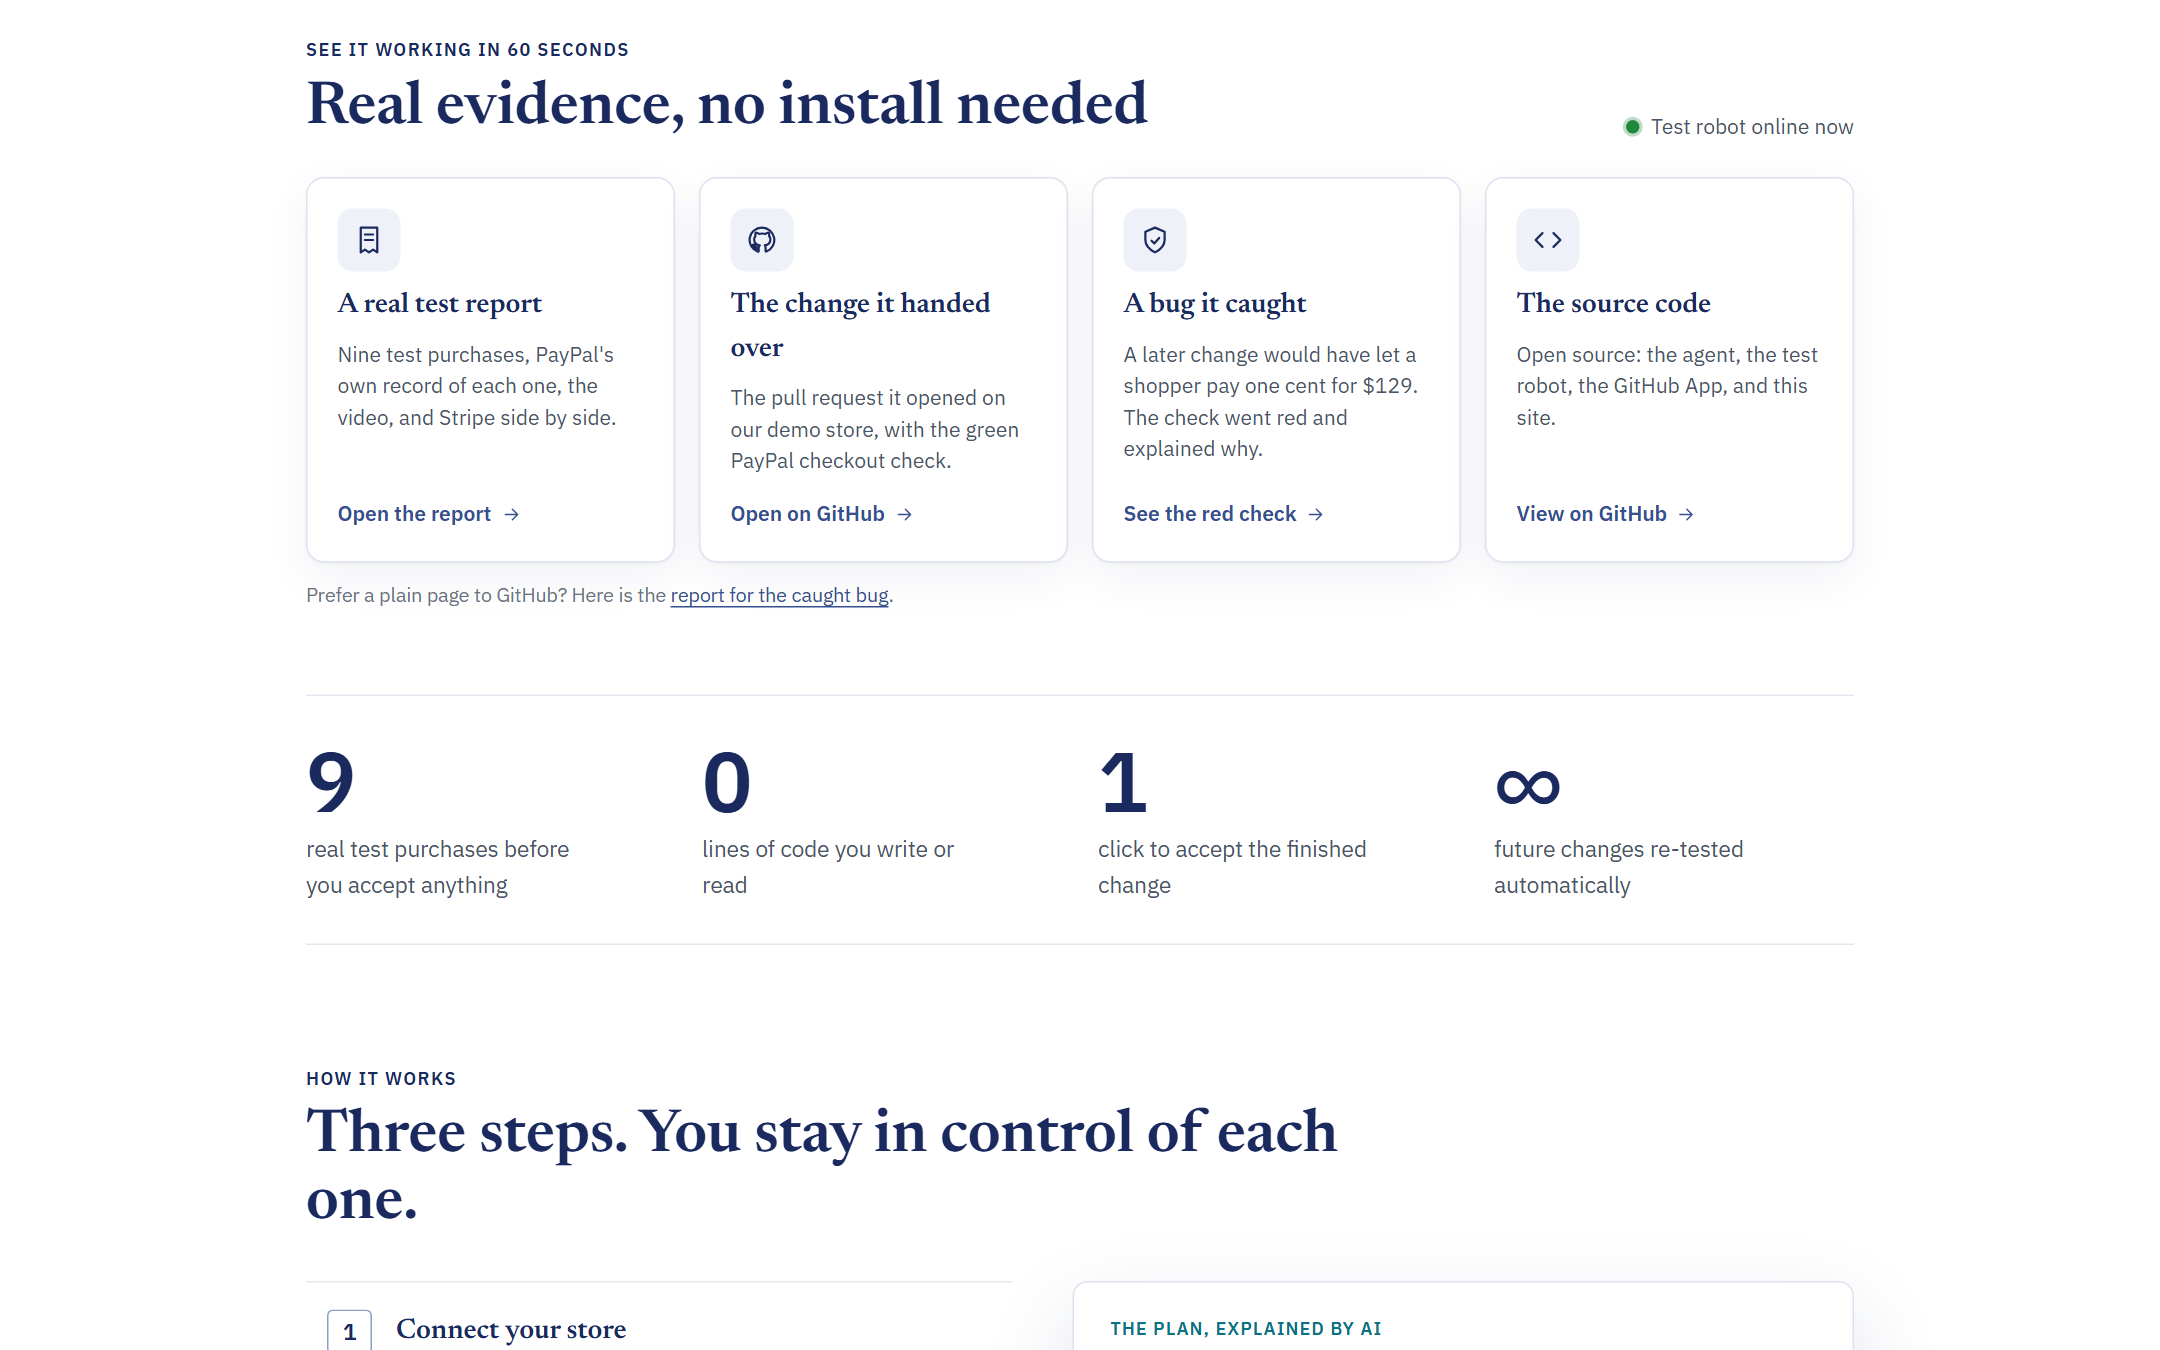
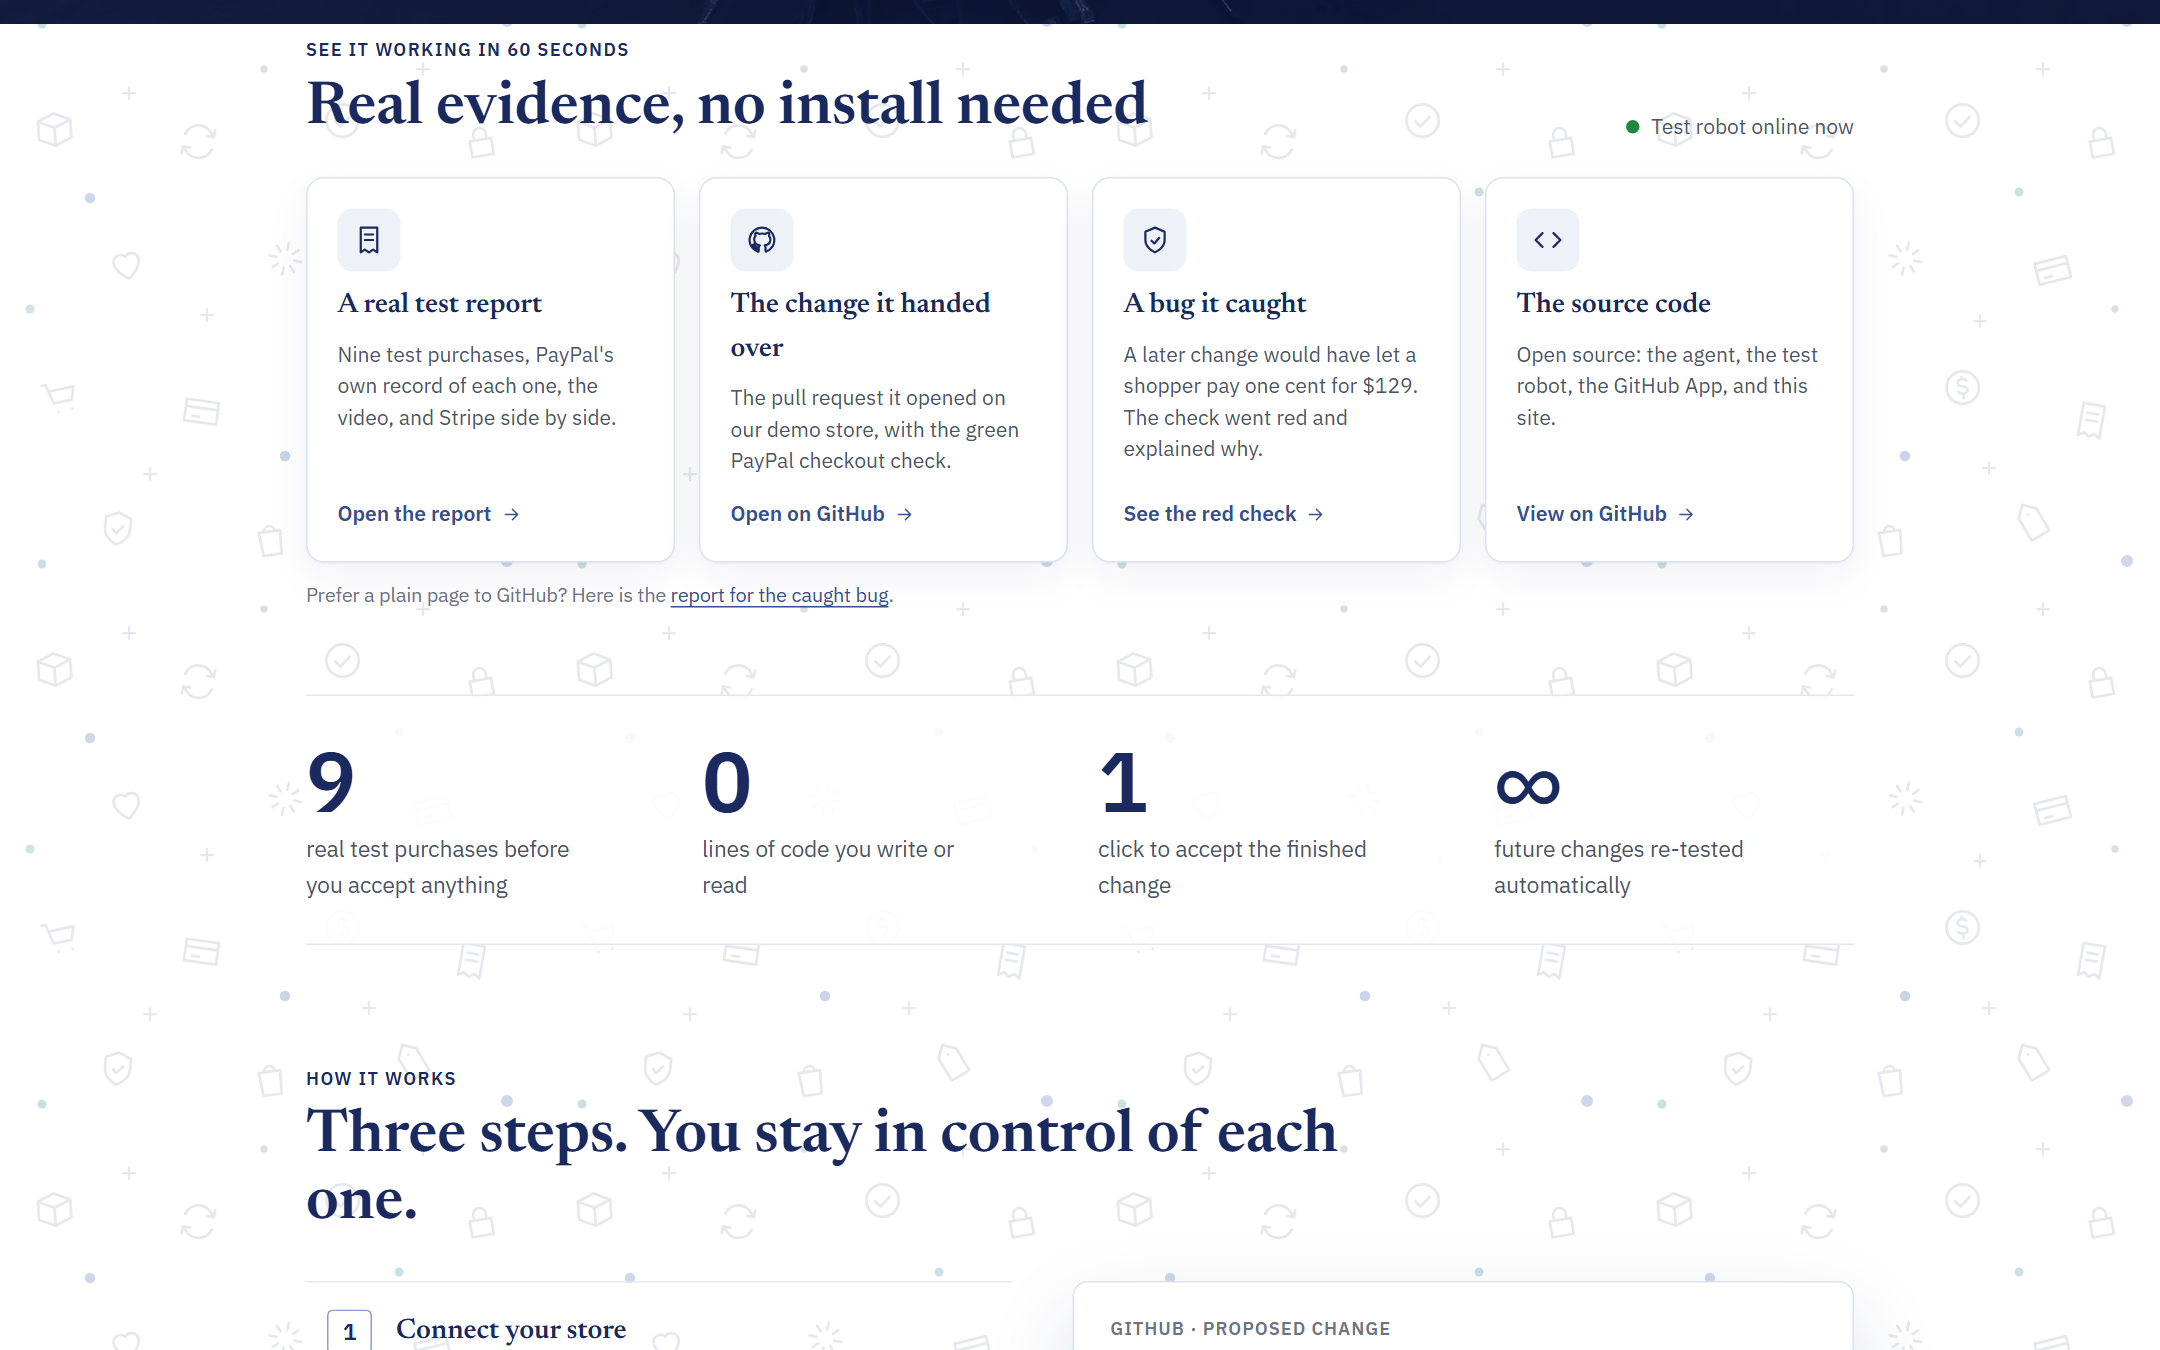
Brand background: navy Lower Manhattan photo hero and CTA (Unsplash, recoloured), checkout doodle tile in brand colours elsewhere

diff --git a/apps/web/app/app.css b/apps/web/app/app.css
@@ -3,8 +3,48 @@
    tint, with a few product graphics. Brand navy, Plex + Newsreader, no gradients. */
 :root { --tint: #f5f7fb; --gold: #ffc439; --gh-green: #1f883d; --gh-red: #cf222e; --red-0: #fdecec; --orange-0: #fff4e0; }
 
-html, body { background: var(--tint); }
-html:has(.landing), body:has(.landing) { background: #fff; }
+/* Background: a repeating tile of checkout doodles (public/bg/doodles.svg; editable in Canva or Illustrator). */
+html { background: var(--tint); }
+body { background: var(--tint) url("/bg/doodles.svg") 0 0 / 360px 360px repeat; }
+html:has(.landing) { background: #fff; }
+body:has(.landing) { background-color: #fff; }
+/* App page headings get a soft halo so they stay crisp over the doodles. */
+.app-hero > div:first-child { position: relative; isolation: isolate; }
+.app-hero > div:first-child::before {
+  content: ""; position: absolute; inset: -36px -44px -12px; z-index: -1; border-radius: 40px; filter: blur(22px); background: var(--tint);
+}
+.page .section, .store-grid, .tracker, .steps > li { position: relative; }
+
+/* Landing hero: full-width photo band (Lower Manhattan, recoloured to brand navy; public/bg/nyc-navy.webp) */
+html, body { overflow-x: clip; }
+.lp-hero { position: relative; isolation: isolate; padding: 76px 0 104px; }
+.lp-hero::before, .lp-hero::after { content: ""; position: absolute; z-index: -1; top: -40px; bottom: 0; left: 50%; width: 100vw; transform: translateX(-50%); }
+.lp-hero::before { background: #0b1330 url("/bg/nyc-navy.webp") center 38% / cover no-repeat; }
+.lp-hero::after { background: rgba(11, 19, 48, 0.5); }
+.lp-hero h1 { color: #fff; }
+.lp-hero .kicker { color: var(--navy-1); }
+.lp-hero .lp-sub { color: #e6eaf5; }
+.lp-hero .lp-proof { color: var(--navy-1); }
+.lp-hero .lp-proof svg { color: #fff; }
+.lp-hero .btn { background: #fff; color: var(--ink); }
+.lp-hero .btn:hover { background: var(--navy-0); }
+.lp-hero .btn.secondary { background: rgba(255, 255, 255, 0.08); color: #fff; box-shadow: inset 0 0 0 1px rgba(255, 255, 255, 0.6); }
+.lp-hero .btn.secondary:hover { background: rgba(255, 255, 255, 0.16); }
+.lp-hero .fail { color: #ffc2c2; }
+.lp-hero .browser, .lp-hero .checks-card { box-shadow: 0 30px 70px rgba(0, 0, 0, 0.35); border-color: rgba(255, 255, 255, 0.4); }
+.lp-proof-panel { margin-top: 64px; }
+@media (max-width: 900px) { .lp-hero { padding: 48px 0 64px; } }
+
+/* Closing call to action over the same photo */
+.lp-cta { position: relative; isolation: isolate; overflow: hidden; background: #0b1330 url("/bg/nyc-navy.webp") center 62% / cover no-repeat; }
+.lp-cta::before { content: ""; position: absolute; inset: 0; z-index: -1; background: rgba(27, 42, 94, 0.62); }
+.lp-cta-small a { color: var(--navy-1); }
+.ring::before { content: ""; position: absolute; inset: 8px; border-radius: 50%; background: #fff; }
+.ring svg, .ring-text { position: relative; }
+.ring-text { position: absolute; }
+.lp-stats { background: rgba(255, 255, 255, 0.85); }
+.faq, .lp-cards { position: relative; }
+.faq { background: rgba(255, 255, 255, 0.85); }
 .topbar { background: #fff; }
 .footer { border-top: 0; }
 

diff --git a/apps/web/components/Landing.tsx b/apps/web/components/Landing.tsx
@@ -243,7 +243,10 @@ export function Landing({ reportUrl, videoUrl, prUrl, caughtReportUrl, caughtPrU
         <a className="btn btn-lg btn-light" href="/api/auth/login">
           <Icon name="github" size={18} /> Start free with GitHub
         </a>
-        <p className="lp-cta-small">Built with PayPal&apos;s official SDKs, APIMatic, and Claude. A Chui Labs product.</p>
+        <p className="lp-cta-small">
+          Built with PayPal&apos;s official SDKs, APIMatic, and Claude. A Chui Labs product. Lower Manhattan photo via{" "}
+          <a href="https://unsplash.com/photos/aerial-photography-of-buildings-near-sea-Ab-W3gen18Q">Unsplash</a>.
+        </p>
       </section>
     </div>
   );
